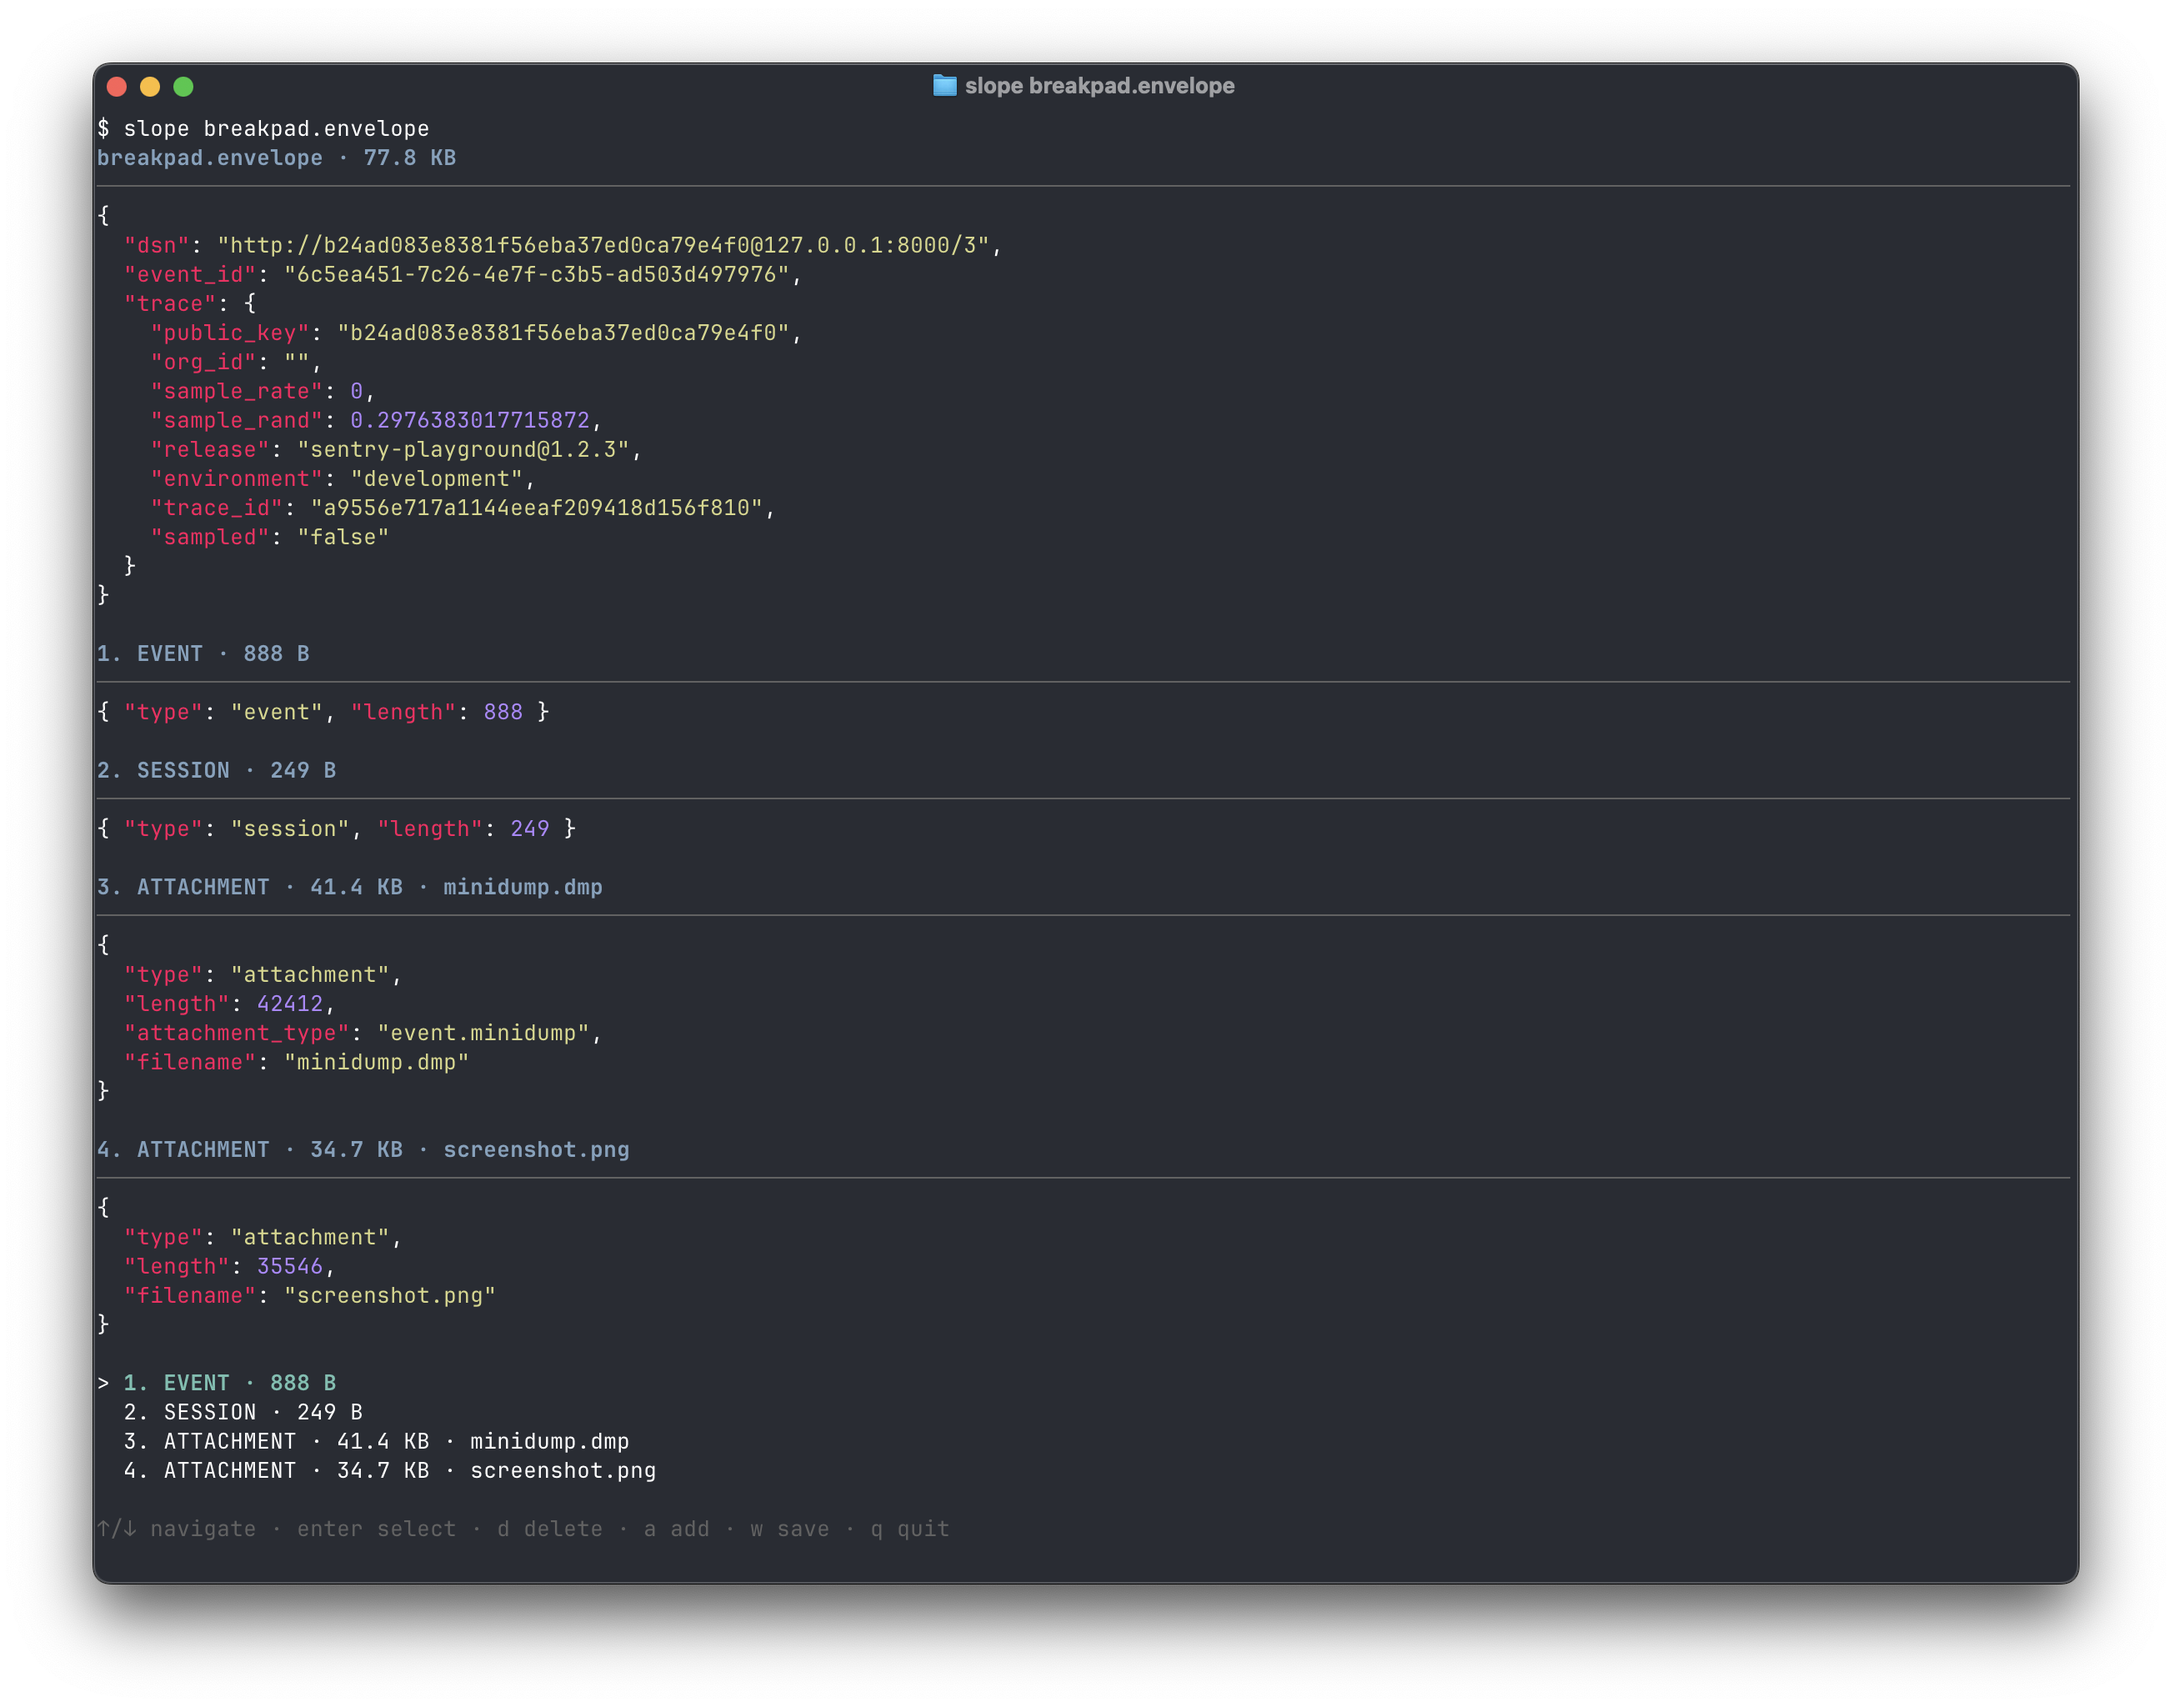
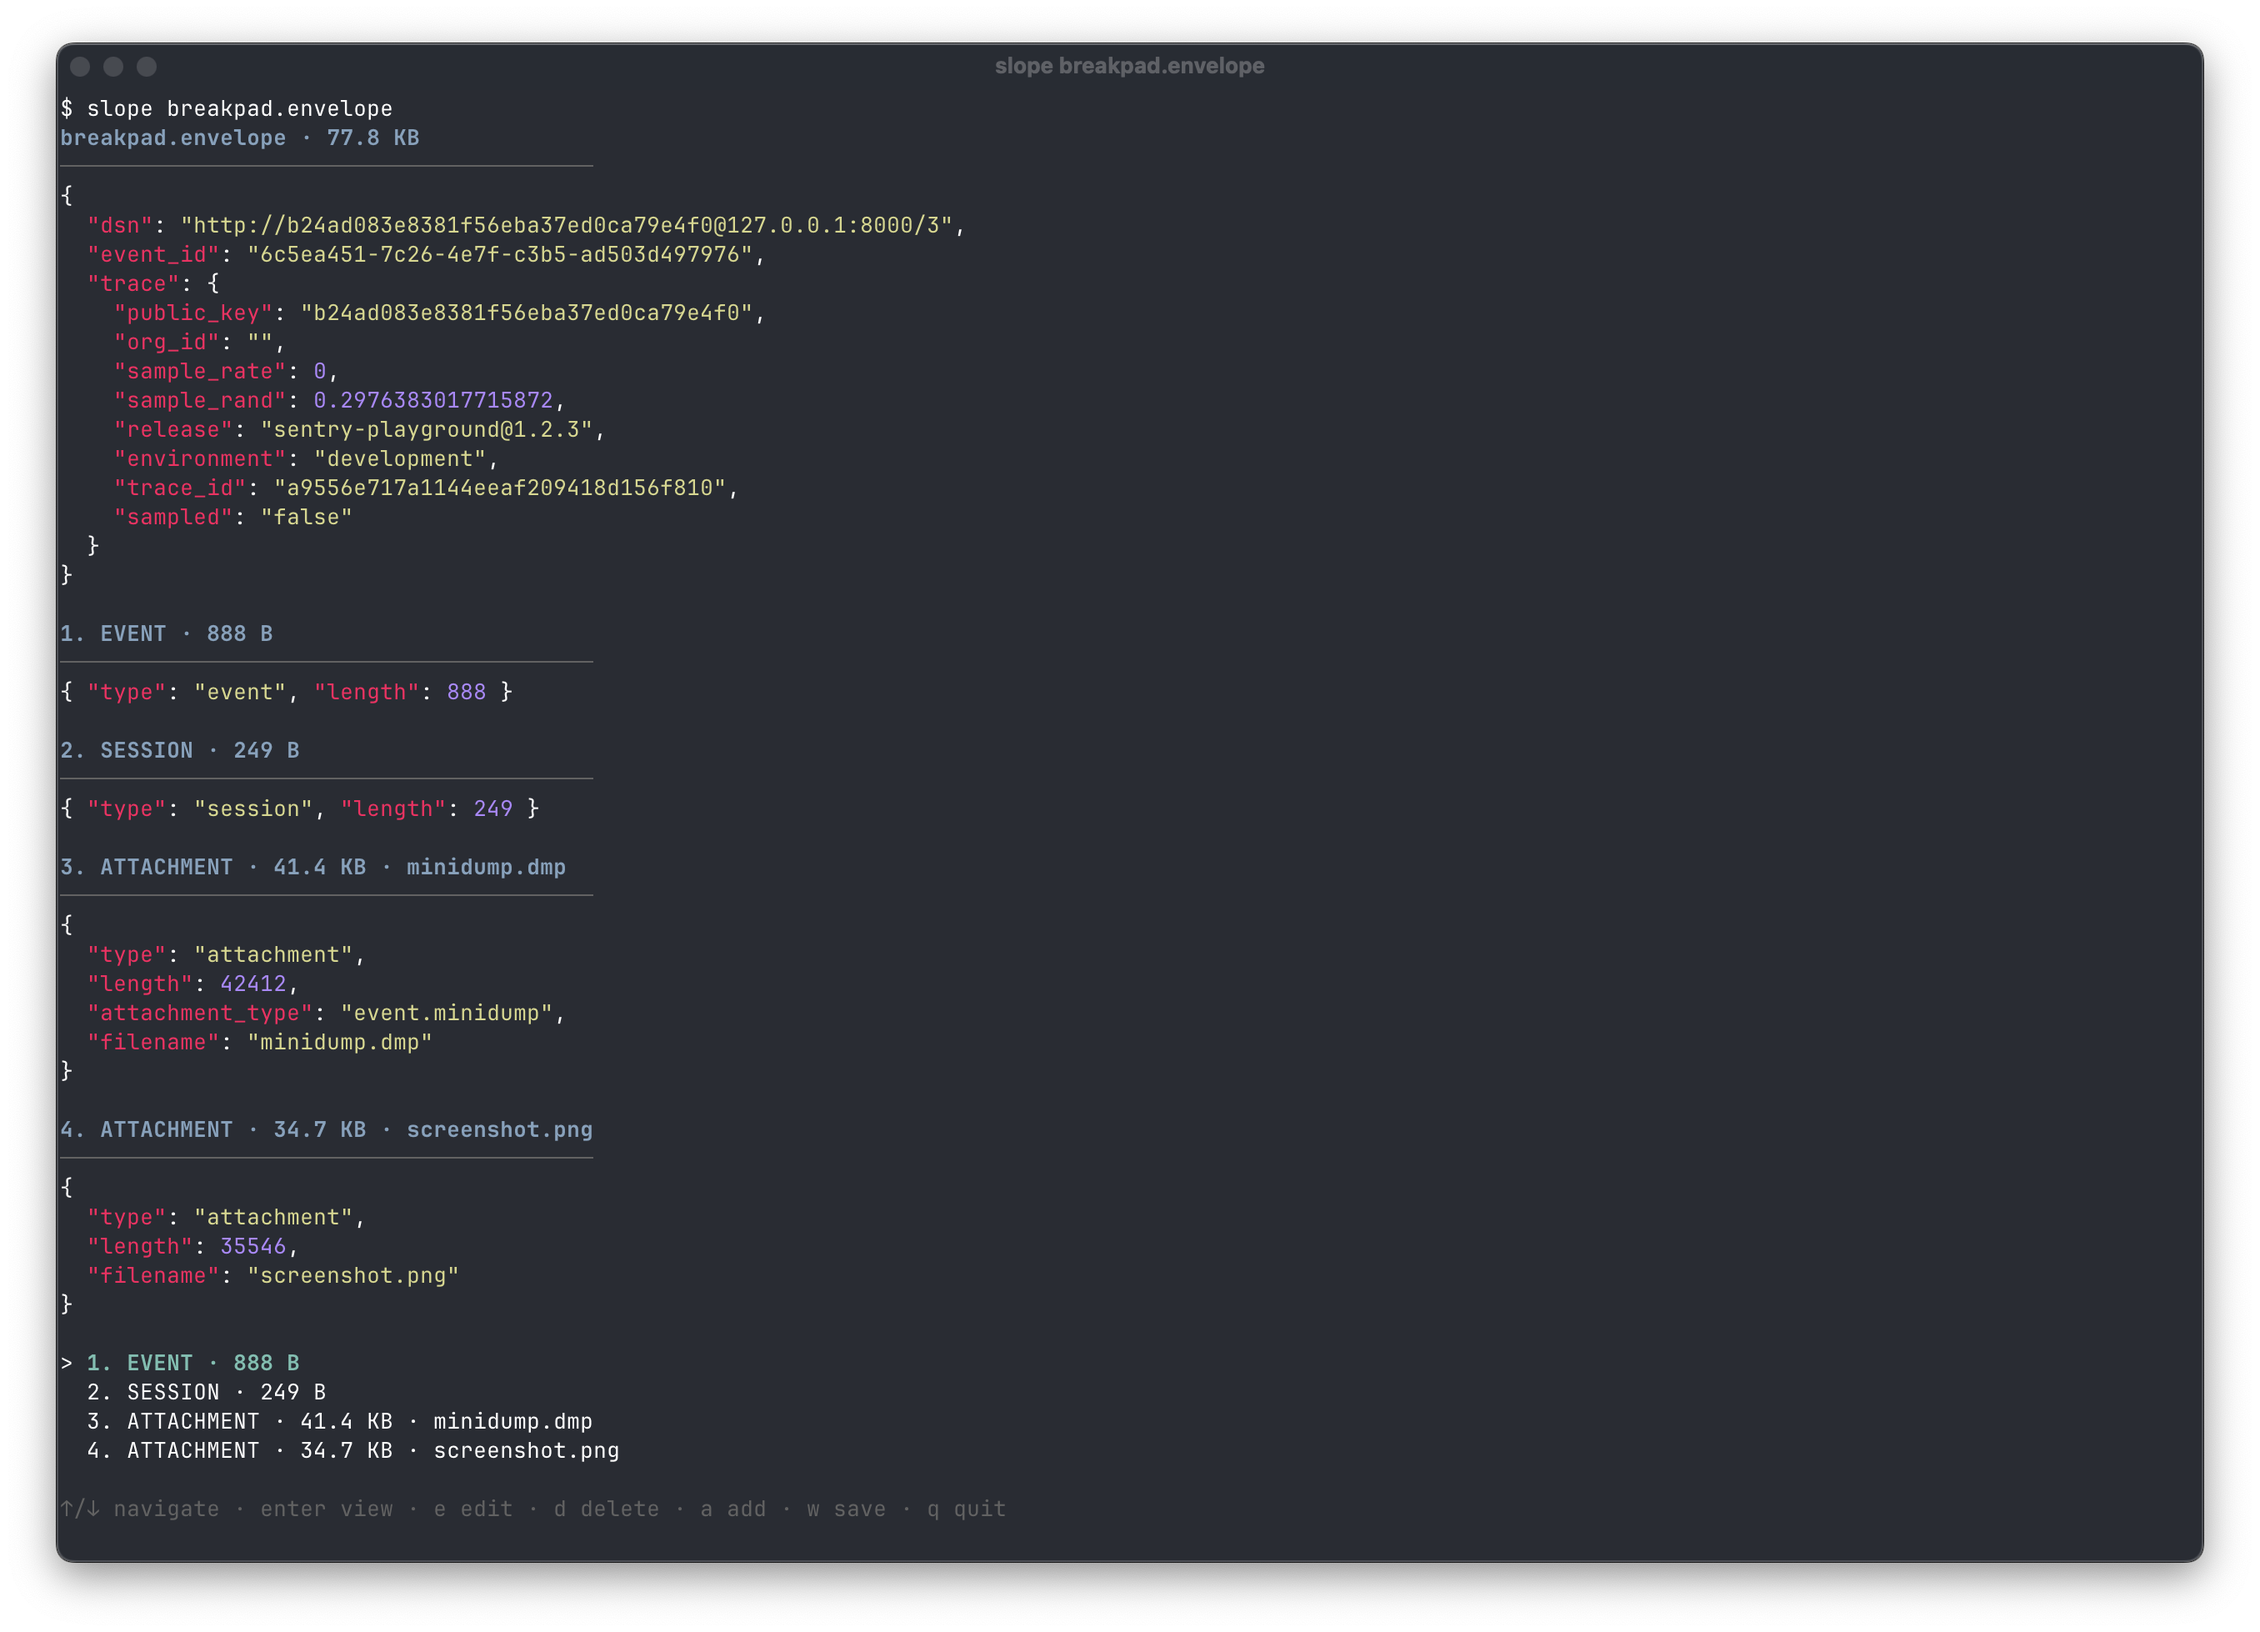
feat: add /screenshot skill for automated README screenshots

Changed region(s): [[0.0, 0.0, 0.9946, 0.9969]]

diff --git a/.claude/skills/screenshot/SKILL.md b/.claude/skills/screenshot/SKILL.md
@@ -1,0 +1,59 @@
+---
+user-invocable: true
+description: Take a screenshot of slope for the README
+---
+
+# Screenshot
+
+Take a screenshot of slope running in a fresh Ghostty terminal window.
+
+## Steps
+
+1. Build and copy files to /tmp:
+   ```
+   go build -o /tmp/slope .
+   cp envelope/testdata/breakpad.envelope /tmp/breakpad.envelope
+   ```
+2. Create a wrapper script at `/tmp/slope-screenshot.sh`:
+   ```bash
+   #!/bin/bash
+   echo -ne "\033]0;slope breakpad.envelope\007"
+   export PS1="$ "
+   clear
+   echo "$ slope breakpad.envelope"
+   exec /tmp/slope /tmp/breakpad.envelope
+   ```
+   Make it executable: `chmod +x /tmp/slope-screenshot.sh`
+3. Open a clean Ghostty window running the wrapper with a preset size:
+   ```
+   open -na Ghostty --args --window-save-state=never --window-width=160 --window-height=50 --command=/tmp/slope-screenshot.sh
+   ```
+4. Sleep 3 seconds for the TUI to render: `sleep 3`
+5. Find the new Ghostty window ID via CoreGraphics and capture the screenshot.
+   The new instance will have a different PID from the main Ghostty process.
+   ```
+   python3 -c "
+   import Quartz
+   windows = Quartz.CGWindowListCopyWindowInfo(Quartz.kCGWindowListOptionOnScreenOnly, Quartz.kCGNullWindowID)
+   ghostty = [(w['kCGWindowNumber'], w['kCGWindowOwnerPID']) for w in windows
+              if 'ghostty' in w.get('kCGWindowOwnerName', '').lower() and w.get('kCGWindowLayer', -1) == 0]
+   # find the smallest PID group (main Ghostty) and pick the other one
+   from collections import Counter
+   pid_counts = Counter(pid for _, pid in ghostty)
+   main_pid = pid_counts.most_common()[-1][0] if len(pid_counts) > 1 else None
+   for wid, pid in ghostty:
+       if pid != main_pid or main_pid is None:
+           print(wid)
+           break
+   "
+   ```
+   Then: `screencapture -l <WINDOW_ID> screenshot.png`
+6. Close the slope Ghostty process: `kill <PID>`
+7. Clean up: `rm /tmp/slope /tmp/breakpad.envelope /tmp/slope-screenshot.sh`
+
+## Notes
+
+- Each step must be run separately. Wait for confirmation before proceeding to the next.
+- The resulting `screenshot.png` is in the repo root.
+- IMPORTANT: Never resize or interact with the main Ghostty window (the one running Claude Code).
+  Always identify the new instance by its different PID.
